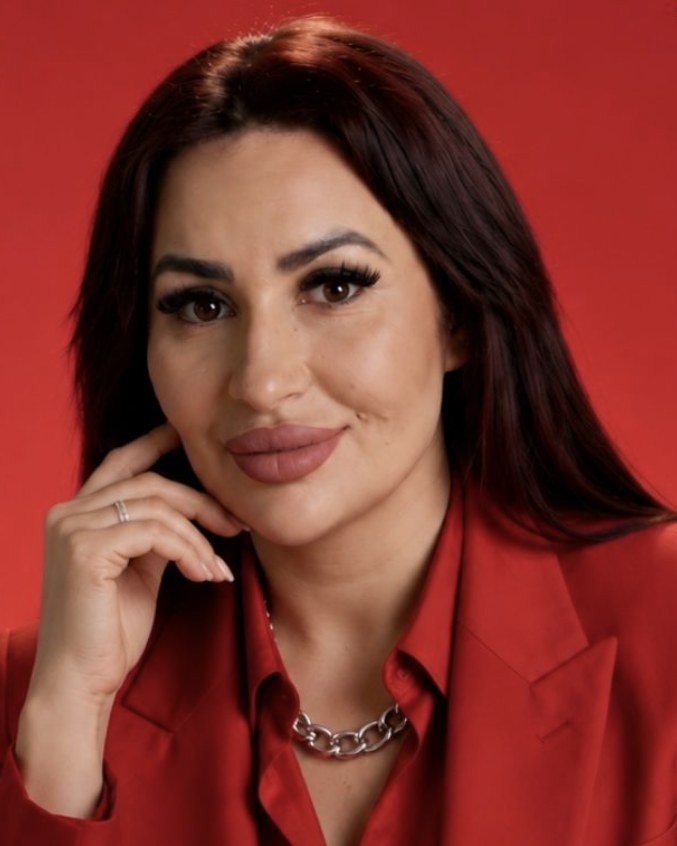
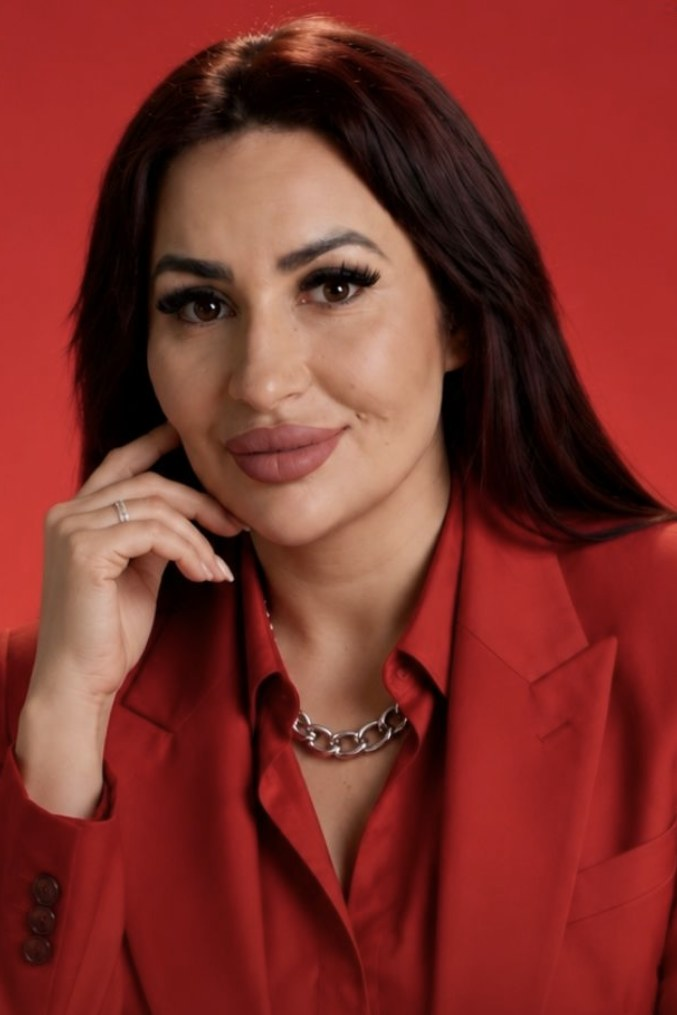
Studios Prestiż, Dialog, Inspiracja; wider host portrait and host card in programmes
Claude-Session: https://claude.ai/code/session_01TFe7T9GAZdAJhXa4UkGFGh

diff --git a/index.html b/index.html
@@ -273,7 +273,7 @@ body::before { content: ""; position: fixed; inset: 0 0 auto; height: env(safe-a
 .host { padding-block: clamp(90px, 11vw, 150px); background: var(--paper); }
 .host .wrap { display: grid; grid-template-columns: 5fr 7fr; gap: clamp(36px, 6vw, 96px); align-items: start; }
 .host-photo { margin: 0; position: sticky; top: 40px; display: grid; gap: 12px; }
-.host-photo img { width: 100%; height: auto; aspect-ratio: 4 / 5; object-fit: cover; border-radius: 6px; }
+.host-photo img { width: 100%; height: auto; aspect-ratio: 2 / 3; object-position: 50% 20%; object-fit: cover; border-radius: 6px; }
 .host-photo figcaption { font-size: var(--t-sm); color: var(--ink-soft); }
 .host-text { display: grid; gap: 18px; max-width: 64ch; }
 .host-text .label { color: var(--orange); }
@@ -284,6 +284,15 @@ body::before { content: ""; position: fixed; inset: 0 0 auto; height: env(safe-a
 .host-facts li { display: grid; gap: 6px; font-size: var(--t-sm); color: var(--ink-soft); }
 .host-facts b { font: 400 2.4rem/1 var(--f-display); color: var(--orange); }
 .host-more { font-size: var(--t-sm); }
+
+/* Host card in programmes */
+.host-card { display: flex; align-items: center; gap: 18px; margin-top: 10px; padding: 12px 22px 12px 12px; border-radius: 999px; background: rgba(255,244,234,.08); border: 1px solid rgba(255,244,234,.18); text-decoration: none; color: var(--cream); justify-self: start; transition: background .2s; }
+.host-card:hover { background: rgba(255,244,234,.14); }
+.host-card img { width: 72px; height: 72px; border-radius: 50%; object-fit: cover; object-position: 50% 18%; flex: none; }
+.host-card > span { display: grid; gap: 2px; }
+.host-card small { font-size: .8rem; color: var(--peach); }
+.host-card b { font: 400 1.5rem/1.1 var(--f-display); }
+.host-card > span > span { font-size: .85rem; color: rgba(255,244,234,.7); }
 
 /* Chamber */
 .chamber { background: var(--teal-deep); color: var(--cream); }
@@ -467,6 +476,7 @@ body::before { content: ""; position: fixed; inset: 0 0 auto; height: env(safe-a
   .steps, .form, .plans { grid-template-columns: minmax(0, 1fr); }
   .price-list li { grid-template-columns: minmax(0, 1fr); }
   .host-facts { grid-template-columns: minmax(0, 1fr); }
+  .host-card { border-radius: 16px; align-items: flex-start; }
   .price-list .price { grid-column: 1; grid-row: auto; text-align: left; }
 }
 @media (prefers-reduced-motion: reduce) {
@@ -500,9 +510,9 @@ body::before { content: ""; position: fixed; inset: 0 0 auto; height: env(safe-a
 <main id="top">
   <section class="hero" id="hero">
     <div class="slides">
-      <img class="slide is-active" src="assets/studio-teal-sunset.jpg" alt="Studio Oranżeria: dwa pomarańczowe aksamitne fotele i morska ściana z roślinami" width="1600" height="1067" fetchpriority="high">
-      <img class="slide" src="assets/studio-forum.jpg" alt="Studio Salon: kremowa i rdzawa sofa z mikrofonami, okrągły stolik z orzecha i bordowa ściana z logo" width="1600" height="1067">
-      <img class="slide" src="assets/studio-ivory-sculpture.jpg" alt="Studio Gabinet: kremowy stół i dwa bordowe fotele z mikrofonami" width="1600" height="1067">
+      <img class="slide is-active" src="assets/studio-teal-sunset.jpg" alt="Studio Inspiracja: dwa pomarańczowe aksamitne fotele i morska ściana z roślinami" width="1600" height="1067" fetchpriority="high">
+      <img class="slide" src="assets/studio-forum.jpg" alt="Studio Prestiż: kremowa i rdzawa sofa z mikrofonami, okrągły stolik z orzecha i bordowa ściana z logo" width="1600" height="1067">
+      <img class="slide" src="assets/studio-ivory-sculpture.jpg" alt="Studio Dialog: kremowy stół i dwa bordowe fotele z mikrofonami" width="1600" height="1067">
     </div>
     <div class="hero-glow" id="hero-glow"></div>
     <div class="wrap">
@@ -515,9 +525,9 @@ body::before { content: ""; position: fixed; inset: 0 0 auto; height: env(safe-a
         </div>
       </div>
       <div class="stories" aria-label="Studia">
-        <button class="story is-active" type="button" data-slide="0"><span class="bar"><i></i></span><span>Oranżeria</span></button>
-        <button class="story" type="button" data-slide="1"><span class="bar"><i></i></span><span>Salon</span></button>
-        <button class="story" type="button" data-slide="2"><span class="bar"><i></i></span><span>Gabinet</span></button>
+        <button class="story is-active" type="button" data-slide="0"><span class="bar"><i></i></span><span>Inspiracja</span></button>
+        <button class="story" type="button" data-slide="1"><span class="bar"><i></i></span><span>Prestiż</span></button>
+        <button class="story" type="button" data-slide="2"><span class="bar"><i></i></span><span>Dialog</span></button>
       </div>
     </div>
   </section>
@@ -540,14 +550,14 @@ body::before { content: ""; position: fixed; inset: 0 0 auto; height: env(safe-a
     <section class="studio studio--forum has-plants">
       <span class="botanic" data-plant="sprig" style="right:-30px; top:-20px; --rot:-150deg; --w: clamp(150px, 16vw, 250px)"></span>
       <div class="wrap">
-        <div class="studio-top"><h2><em>Salon</em></h2><span class="label">Największe studio · panele i talk-show</span></div>
-        <figure data-hotspots="forum"><img src="assets/studio-forum.jpg" alt="Plan Salon z dwiema sofami i sześcioma mikrofonami" width="1600" height="1067" loading="lazy"></figure>
+        <div class="studio-top"><h2><em>Prestiż</em></h2><span class="label">Największe studio · panele i talk-show</span></div>
+        <figure data-hotspots="forum"><img src="assets/studio-forum.jpg" alt="Plan Prestiż z dwiema sofami i sześcioma mikrofonami" width="1600" height="1067" loading="lazy"></figure>
         <div class="studio-info">
           <p>Największe studio: dwie sofy, sześć mikrofonów i bordowa ściana w ciepłym świetle. Na talk-show, panele i rozmowy z kilkoma gośćmi.</p>
           <dl><dt>Goście</dt><dd>do 6 osób</dd></dl>
           <dl><dt>Format</dt><dd>wideo, live</dd></dl>
           <dl><dt>Cena</dt><dd>1800 zł / h</dd></dl>
-          <button class="btn btn--cream" type="button" data-studio="Salon">Rezerwuj <span class="arrow">→</span></button>
+          <button class="btn btn--cream" type="button" data-studio="Prestiż">Rezerwuj <span class="arrow">→</span></button>
         </div>
       </div>
     </section>
@@ -555,14 +565,14 @@ body::before { content: ""; position: fixed; inset: 0 0 auto; height: env(safe-a
     <section class="studio studio--ivory has-plants">
       <span class="botanic" data-plant="fern" style="left:-50px; bottom:-60px; --rot:24deg"></span>
       <div class="wrap">
-        <div class="studio-top"><h2><em>Gabinet</em></h2><span class="label">Rozmowa w cztery oczy</span></div>
-        <figure data-hotspots="ivory"><img src="assets/studio-ivory-sculpture.jpg" alt="Studio Gabinet: kremowy stół na żłobionych kolumnach i dwa bordowe fotele z mikrofonami" width="1600" height="1067" loading="lazy"></figure>
+        <div class="studio-top"><h2><em>Dialog</em></h2><span class="label">Rozmowa w cztery oczy</span></div>
+        <figure data-hotspots="ivory"><img src="assets/studio-ivory-sculpture.jpg" alt="Studio Dialog: kremowy stół na żłobionych kolumnach i dwa bordowe fotele z mikrofonami" width="1600" height="1067" loading="lazy"></figure>
         <div class="studio-info">
           <p>Jasne wnętrze z terakotową ścianą i rzeźbiarskim stołem. Do rozmowy w cztery oczy.</p>
           <dl><dt>Goście</dt><dd>2 osoby</dd></dl>
           <dl><dt>Format</dt><dd>podcast, wywiad</dd></dl>
           <dl><dt>Cena</dt><dd>od 1000 zł / h</dd></dl>
-          <button class="btn btn--cream" type="button" data-studio="Gabinet">Rezerwuj <span class="arrow">→</span></button>
+          <button class="btn btn--cream" type="button" data-studio="Dialog">Rezerwuj <span class="arrow">→</span></button>
         </div>
       </div>
     </section>
@@ -570,14 +580,14 @@ body::before { content: ""; position: fixed; inset: 0 0 auto; height: env(safe-a
     <section class="studio studio--teal has-plants">
       <span class="botanic" data-plant="banana" style="right:-120px; bottom:-150px; --rot:-30deg"></span>
       <div class="wrap">
-        <div class="studio-top"><h2><em>Oranżeria</em></h2><span class="label">Swobodne rozmowy i rolki</span></div>
-        <figure data-hotspots="teal"><img src="assets/studio-teal-sunset.jpg" alt="Studio Oranżeria: pomarańczowe aksamitne fotele, srebrny stolik i ściana z roślin w ciepłym świetle" width="1600" height="1067" loading="lazy"></figure>
+        <div class="studio-top"><h2><em>Inspiracja</em></h2><span class="label">Swobodne rozmowy i rolki</span></div>
+        <figure data-hotspots="teal"><img src="assets/studio-teal-sunset.jpg" alt="Studio Inspiracja: pomarańczowe aksamitne fotele, srebrny stolik i ściana z roślin w ciepłym świetle" width="1600" height="1067" loading="lazy"></figure>
         <div class="studio-info">
           <p>Morska zieleń, pomarańczowy aksamit i ściana z roślin. Na rozmowy w duecie i nagrania do social mediów.</p>
           <dl><dt>Goście</dt><dd>2 osoby</dd></dl>
           <dl><dt>Format</dt><dd>podcast, rolki</dd></dl>
           <dl><dt>Cena</dt><dd>od 1000 zł / h</dd></dl>
-          <button class="btn btn--cream" type="button" data-studio="Oranżeria">Rezerwuj <span class="arrow">→</span></button>
+          <button class="btn btn--cream" type="button" data-studio="Inspiracja">Rezerwuj <span class="arrow">→</span></button>
         </div>
       </div>
     </section>
@@ -592,8 +602,8 @@ body::before { content: ""; position: fixed; inset: 0 0 auto; height: env(safe-a
       </div>
       <div>
         <ul class="price-list">
-          <li><h3>Nagranie wideo</h3><p>Godzina w studiu Gabinet lub Oranżeria z realizatorem. Dostajesz surowy materiał wideo i audio.</p><span class="price">od 1000 zł<small>za godzinę</small></span></li>
-          <li><h3>Studio Salon</h3><p>Nasze największe studio: dwie sofy i sześć mikrofonów. Godzina z realizatorem, surowy materiał wideo i audio.</p><span class="price">1800 zł<small>za godzinę</small></span></li>
+          <li><h3>Nagranie wideo</h3><p>Godzina w studiu Dialog lub Inspiracja z realizatorem. Dostajesz surowy materiał wideo i audio.</p><span class="price">od 1000 zł<small>za godzinę</small></span></li>
+          <li><h3>Studio Prestiż</h3><p>Nasze największe studio: dwie sofy i sześć mikrofonów. Godzina z realizatorem, surowy materiał wideo i audio.</p><span class="price">1800 zł<small>za godzinę</small></span></li>
           <li><h3>Zmontowany odcinek</h3><p>Nagranie, montaż, korekta dźwięku i koloru, napisy. Gotowy do publikacji.</p><span class="price">od 1500 zł<small>za odcinek</small></span></li>
           <li><h3>Odcinek i 3 rolki</h3><p>Gotowe, zmontowane wideo oraz 3 rolki promocyjne do mediów społecznościowych.</p><span class="price">od 2500 zł<small>za odcinek</small></span></li>
           <li><h3>Wydarzenia i sala konferencyjna</h3><p>Nagranie lub transmisja konferencji, szkolenia, panelu. Do 40 osób.</p><span class="price">wycena<small>indywidualna</small></span></li>
@@ -603,7 +613,7 @@ body::before { content: ""; position: fixed; inset: 0 0 auto; height: env(safe-a
           <div class="calc-row"><span>Co potrzebujesz</span>
             <div class="seg">
               <label><input type="radio" name="variant" value="Nagranie wideo (surowy materiał)" data-rate="1000" data-unit="h" checked><span>Surowe nagranie</span></label>
-              <label><input type="radio" name="variant" value="Wynajem studia Salon" data-rate="1800" data-unit="h"><span>Salon, godzina</span></label>
+              <label><input type="radio" name="variant" value="Wynajem studia Prestiż" data-rate="1800" data-unit="h"><span>Prestiż, godzina</span></label>
               <label><input type="radio" name="variant" value="Zmontowany odcinek" data-rate="1500" data-unit="odc"><span>Zmontowany odcinek</span></label>
               <label><input type="radio" name="variant" value="Odcinek i 3 rolki" data-rate="2500" data-unit="odc"><span>Odcinek i 3 rolki</span></label>
             </div>
@@ -633,7 +643,7 @@ body::before { content: ""; position: fixed; inset: 0 0 auto; height: env(safe-a
           <h3>Start</h3>
           <p class="amount">1900 zł<small>netto</small></p>
           <ul>
-            <li>Wywiad do 20 minut w studiu Gabinet lub Oranżeria</li>
+            <li>Wywiad do 20 minut w studiu Dialog lub Inspiracja</li>
             <li>Montaż i napisy</li>
             <li>1 rolka promocyjna</li>
             <li>Publikacja w Global Women TV</li>
@@ -661,7 +671,7 @@ body::before { content: ""; position: fixed; inset: 0 0 auto; height: env(safe-a
           <ul>
             <li>60 minut konsultacji online przed nagraniem</li>
             <li>Profesjonalny makijaż przed wejściem na plan</li>
-            <li>Wywiad do 60 minut w studiu Salon</li>
+            <li>Wywiad do 60 minut w studiu Prestiż</li>
             <li>Montaż, napisy i miniatura</li>
             <li>5 rolek promocyjnych</li>
             <li>10 zdjęć portretowych z planu</li>
@@ -690,6 +700,10 @@ body::before { content: ""; position: fixed; inset: 0 0 auto; height: env(safe-a
         <p class="label">Zaproszenie</p>
         <h2>Programy dla <em>kobiet biznesu</em></h2>
         <p>Zapraszamy przedsiębiorczynie do trzech programów Polish Women Chamber of Commerce. W każdym jest 25 miejsc. Uczestniczki nagrywają w naszym studiu, pokazujemy je w kanałach Izby i łączymy ze sobą w zamkniętej grupie.</p>
+        <a class="host-card" href="#prowadzaca">
+          <img src="assets/patricia-claudia-mitro.jpg" alt="" width="677" height="1015" loading="lazy">
+          <span><small>Programy prowadzi</small><b>Patricia Claudia Mitro</b><span>Prezydentka Polish Women Chamber of Commerce, redaktorka naczelna Business Women IMPACT</span></span>
+        </a>
       </div>
       <div class="programs-grid">
         <article class="program program--premium">
@@ -697,7 +711,7 @@ body::before { content: ""; position: fixed; inset: 0 0 auto; height: env(safe-a
           <h3>Global Women <em>Premium</em></h3>
           <p class="program-for">Dla doświadczonych przedsiębiorczyń, które działają globalnie.</p>
           <ul>
-            <li>Wywiad wideo w studiu Salon, zmontowany, z 3 rolkami</li>
+            <li>Wywiad wideo w studiu Prestiż, zmontowany, z 3 rolkami</li>
             <li>Profil w magazynie Business Women IMPACT</li>
             <li>Promocja w sieci Izby w 16 krajach</li>
             <li>Zamknięte spotkania grupy 25 liderek</li>
@@ -778,7 +792,7 @@ body::before { content: ""; position: fixed; inset: 0 0 auto; height: env(safe-a
   <section class="host" id="prowadzaca">
     <div class="wrap">
       <figure class="host-photo" id="host-photo">
-        <img src="assets/patricia-claudia-mitro.jpg" alt="Patricia Claudia Mitro w czerwonej marynarce" width="677" height="846" loading="lazy">
+        <img src="assets/patricia-claudia-mitro.jpg" alt="Patricia Claudia Mitro w czerwonej marynarce" width="677" height="1015" loading="lazy">
         <figcaption>Patricia Claudia Mitro, prowadząca Global Women TV</figcaption>
       </figure>
       <div class="host-text">
@@ -870,7 +884,7 @@ body::before { content: ""; position: fixed; inset: 0 0 auto; height: env(safe-a
           <select id="f-service" name="service">
             <optgroup label="Nagranie">
               <option>Nagranie wideo (surowy materiał)</option>
-              <option>Wynajem studia Salon</option>
+              <option>Wynajem studia Prestiż</option>
               <option>Zmontowany odcinek</option>
               <option>Odcinek i 3 rolki</option>
               <option>Wydarzenie lub sala konferencyjna</option>
@@ -894,9 +908,9 @@ body::before { content: ""; position: fixed; inset: 0 0 auto; height: env(safe-a
         <div class="field"><label for="f-studio">Studio</label>
           <select id="f-studio" name="studio">
             <option>Bez preferencji</option>
-            <option>Salon</option>
-            <option>Gabinet</option>
-            <option>Oranżeria</option>
+            <option>Prestiż</option>
+            <option>Dialog</option>
+            <option>Inspiracja</option>
           </select>
         </div>
         <div class="field field--full"><label for="f-hours">Czas nagrania</label>
@@ -1025,7 +1039,7 @@ body::before { content: ""; position: fixed; inset: 0 0 auto; height: env(safe-a
           </ol>
           <h3>§2. Usługi</h3>
           <ol>
-            <li>Usługodawca świadczy usługi: nagrania wideo z przekazaniem surowego materiału, wynajmu studia Salon, nagrania z montażem odcinka, nagrania z montażem i rolkami promocyjnymi, obsługi wydarzeń, pakietów Global Women TV oraz programów Global Women Premium, Polish Women Business i Women Entrepreneur.</li>
+            <li>Usługodawca świadczy usługi: nagrania wideo z przekazaniem surowego materiału, wynajmu studia Prestiż, nagrania z montażem odcinka, nagrania z montażem i rolkami promocyjnymi, obsługi wydarzeń, pakietów Global Women TV oraz programów Global Women Premium, Polish Women Business i Women Entrepreneur.</li>
             <li>Ceny podane na stronie są cenami netto, do których dolicza się podatek VAT według obowiązującej stawki. Ceny oznaczone słowem „od” są cenami minimalnymi. Ostateczną cenę Usługodawca podaje w potwierdzeniu rezerwacji.</li>
           </ol>
           <h3>§3. Rezerwacja i zawarcie umowy</h3>
@@ -1150,20 +1164,20 @@ const CONFIG = {
 
 // Kadry do paska na dole strony. Dodaj tu zdjęcia z prawdziwych nagrań: { src, title, note }.
 const FRAMES = [
-  { src: "assets/frames/forum-salon.jpg", title: "Salon", note: "Panel dyskusyjny" },
-  { src: "assets/frames/ivory-mic.jpg", title: "Gabinet", note: "Wywiad ekspercki" },
-  { src: "assets/frames/teal-set.jpg", title: "Oranżeria", note: "Rozmowa w duecie" },
-  { src: "assets/frames/forum-wall.jpg", title: "Salon", note: "Otwarcie odcinka" },
-  { src: "assets/frames/ivory-chair.jpg", title: "Gabinet", note: "Ujęcie detalu" },
-  { src: "assets/frames/teal-plants.jpg", title: "Oranżeria", note: "Kamera boczna" },
-  { src: "assets/frames/forum-sofa.jpg", title: "Salon", note: "Plan szeroki" },
-  { src: "assets/frames/ivory-set.jpg", title: "Gabinet", note: "Podcast wideo" },
-  { src: "assets/frames/teal-chair.jpg", title: "Oranżeria", note: "Rolka pionowa" },
-  { src: "assets/frames/forum-velvet.jpg", title: "Salon", note: "Talk-show" },
-  { src: "assets/frames/ivory-wall.jpg", title: "Gabinet", note: "Plan główny" },
-  { src: "assets/frames/teal-wall.jpg", title: "Oranżeria", note: "Ujęcie na logo" },
-  { src: "assets/frames/teal-mic.jpg", title: "Oranżeria", note: "Mikrofon lektorski" },
-  { src: "assets/frames/forum-table.jpg", title: "Salon", note: "Przerywnik" }
+  { src: "assets/frames/forum-salon.jpg", title: "Prestiż", note: "Panel dyskusyjny" },
+  { src: "assets/frames/ivory-mic.jpg", title: "Dialog", note: "Wywiad ekspercki" },
+  { src: "assets/frames/teal-set.jpg", title: "Inspiracja", note: "Rozmowa w duecie" },
+  { src: "assets/frames/forum-wall.jpg", title: "Prestiż", note: "Otwarcie odcinka" },
+  { src: "assets/frames/ivory-chair.jpg", title: "Dialog", note: "Ujęcie detalu" },
+  { src: "assets/frames/teal-plants.jpg", title: "Inspiracja", note: "Kamera boczna" },
+  { src: "assets/frames/forum-sofa.jpg", title: "Prestiż", note: "Plan szeroki" },
+  { src: "assets/frames/ivory-set.jpg", title: "Dialog", note: "Podcast wideo" },
+  { src: "assets/frames/teal-chair.jpg", title: "Inspiracja", note: "Rolka pionowa" },
+  { src: "assets/frames/forum-velvet.jpg", title: "Prestiż", note: "Talk-show" },
+  { src: "assets/frames/ivory-wall.jpg", title: "Dialog", note: "Plan główny" },
+  { src: "assets/frames/teal-wall.jpg", title: "Inspiracja", note: "Ujęcie na logo" },
+  { src: "assets/frames/teal-mic.jpg", title: "Inspiracja", note: "Mikrofon lektorski" },
+  { src: "assets/frames/forum-table.jpg", title: "Prestiż", note: "Przerywnik" }
 ];
 
 const reduced = matchMedia("(prefers-reduced-motion: reduce)").matches;
